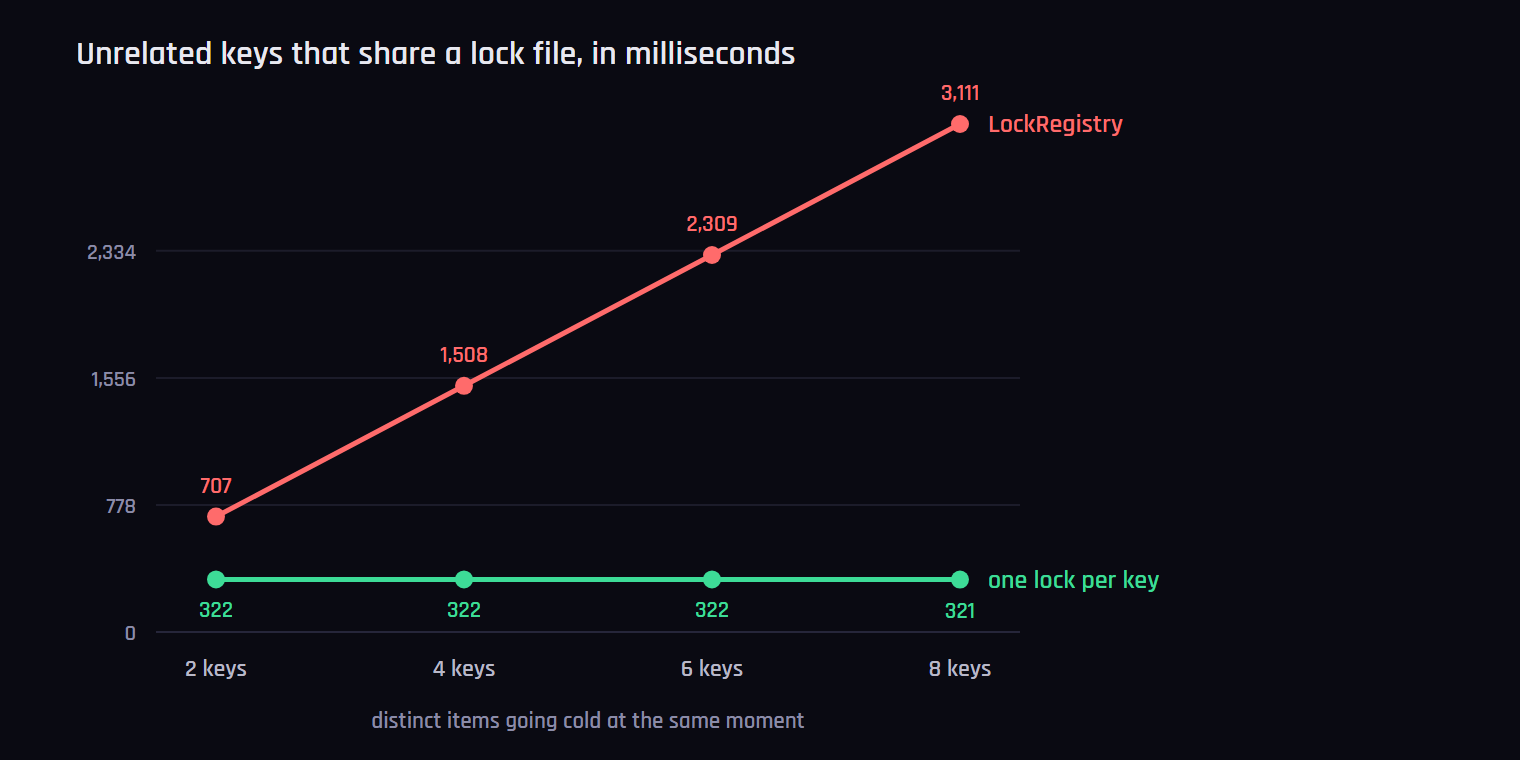
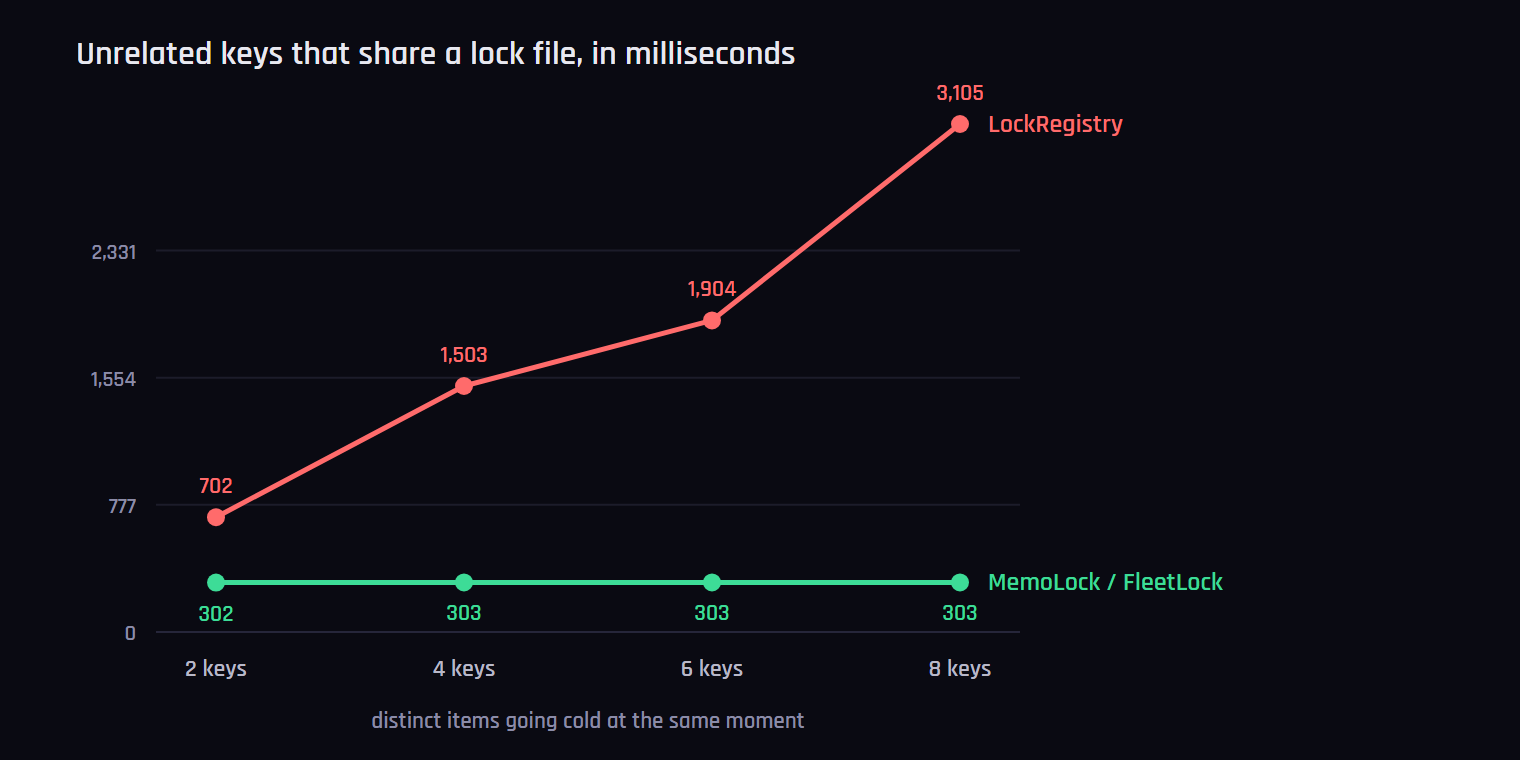
The lock-file collision chart names both locks, measured both
benchmarks/stampede.php keys=collide now ran for MemoLock and FleetLock (on RedisStore) beside
LockRegistry, three runs each: distinct cold keys that share one of LockRegistry's lock files, 300 ms
to compute each. MemoLock and FleetLock lock each key on its own and finish in 302-303 ms for two to
eight keys; LockRegistry takes 0.702, 1.503, 1.904 and 3.105 s, its handovers waiting for its 100 ms
poll, so its times move between runs (six keys: 1.81, 1.90 and 2.30 s).

docs/false-sharing.svg/.png draw those numbers and name the classes, "MemoLock / FleetLock" instead of
"one lock per key"; the README's table has a column for each lock and the command that produces it.

diff --git a/benchmarks/charts.php b/benchmarks/charts.php
@@ -35,15 +35,19 @@ const STAMPEDE = [
 ];
 
 /*
- * php benchmarks/stampede.php workers=N resolverMs=300 keys=collide
+ * php benchmarks/stampede.php workers=N resolverMs=300 keys=collide modes=symfony-onehost,memolock,fleetlock
  * Distinct cold keys that share one of LockRegistry's lock files. Milliseconds
- * for the slowest of them, where each takes 300 ms to compute.
+ * for the slowest of them, where each takes 300 ms to compute, the middle of
+ * three runs. MemoLock and FleetLock (on RedisStore) lock each key on its own
+ * and measured within a millisecond of each other (302-303 ms), so they share
+ * one line, drawn at the slower. LockRegistry's handovers wait for its 100 ms
+ * poll, so its times move between runs (six keys: 1.81, 1.90 and 2.30 s).
  */
 const FALSE_SHARING = [
     'labels' => ['2 keys', '4 keys', '6 keys', '8 keys'],
     'series' => [
-        ['name' => 'one lock per key', 'colour' => '#3ddc97', 'values' => [322, 322, 322, 321]],
-        ['name' => 'LockRegistry', 'colour' => '#ff6b6b', 'values' => [707, 1508, 2309, 3111]],
+        ['name' => 'MemoLock / FleetLock', 'colour' => '#3ddc97', 'values' => [302, 303, 303, 303]],
+        ['name' => 'LockRegistry', 'colour' => '#ff6b6b', 'values' => [702, 1503, 1904, 3105]],
     ],
 ];
 

diff --git a/README.md b/README.md
@@ -771,17 +771,22 @@ number of concurrent processes."* So one machine can compute **24 distinct keys
 at once** on Symfony 8.1, and the 25th waits for work it has nothing to do with.
 
 Distinct cold keys chosen to share a slot, 300 ms to compute each. All of them
-genuinely need computing, so the lock saves nothing here and only lines them up:
+genuinely need computing, so the lock saves nothing here and only lines them up.
+`MemoLock` and `FleetLock` lock each key on its own, so nothing waits:
 
-| unrelated keys | `LockRegistry` | one lock per key |
-|---|---|---|
-| 2 | 0.702 s | **0.302 s** |
-| 4 | 1.502 s | **0.302 s** |
-| 6 | 2.303 s | **0.302 s** |
-| 8 | 3.105 s | **0.302 s** |
+| unrelated keys | `LockRegistry` | `MemoLock` | `FleetLock` |
+|---|---|---|---|
+| 2 | 0.702 s | 0.302 s | 0.302 s |
+| 4 | 1.503 s | 0.302 s | 0.303 s |
+| 6 | 1.904 s | 0.302 s | 0.303 s |
+| 8 | 3.105 s | 0.303 s | 0.303 s |
+
+The middle of three runs. `LockRegistry`'s waiters find the file free on their
+next 100 ms poll, so its times move from run to run: six keys took 1.81, 1.90
+and 2.30 s.
 
 ```bash
-php benchmarks/stampede.php workers=8 resolverMs=300 keys=collide
+php benchmarks/stampede.php workers=8 resolverMs=300 keys=collide modes=symfony-onehost,memolock,fleetlock
 ```
 
 ![Unrelated keys sharing a LockRegistry slot](docs/false-sharing.png)
